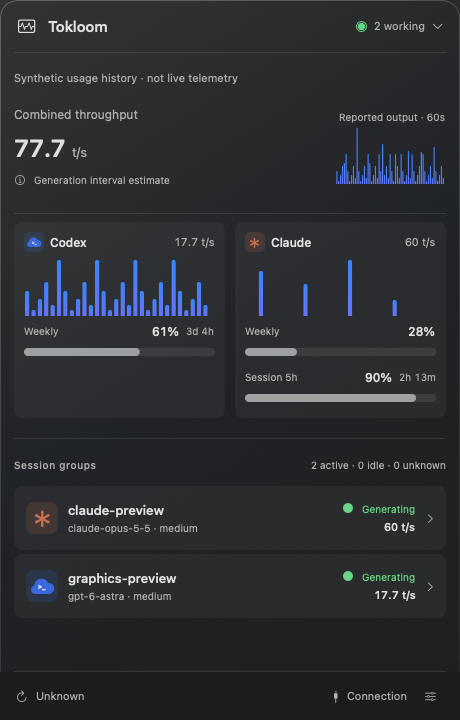
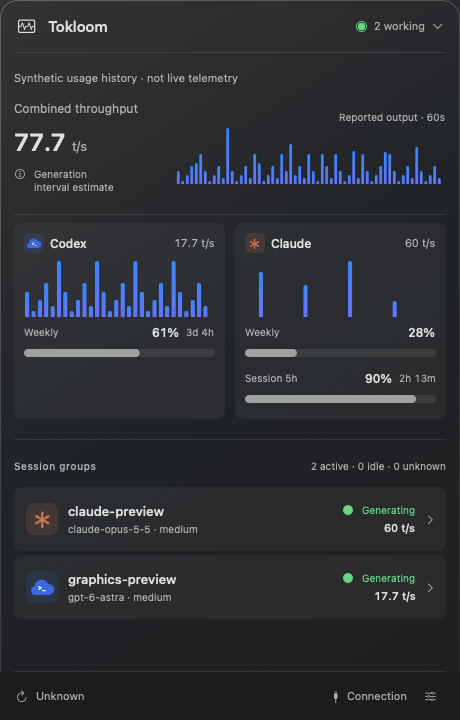
overview: widen the combined chart

diff --git a/Sources/CodexHubApp/HubView.swift b/Sources/CodexHubApp/HubView.swift
@@ -169,7 +169,7 @@ struct HubView: View {
                 VStack(alignment: .trailing, spacing: 4) {
                     Text(model.text(model.rateUnit == .second ? "보고 출력 · 60초" : "보고 출력 · 60분")).font(.system(size: 10)).foregroundStyle(secondary)
                     ObservedTokenChart(points: model.overviewUsageHistory, now: model.frame?.time ?? 0, emptyText: model.text("새 로그 대기"), compact: true, wallClockOffset: model.chartWallClockOffset, unit: model.rateUnit, bars: 60)
-                }.frame(width: width >= 600 ? 240 : width >= 480 ? 160 : 110)
+                }.frame(width: width >= 600 ? 340 : width >= 480 ? 230 : 270)
                     .accessibilityLabel(model.text("관측 출력 토큰"))
                 if width >= 480 { VStack(spacing: 6) {
                     Text(String(model.processCount)).font(.system(size: 20, weight: .semibold)).monospacedDigit()
